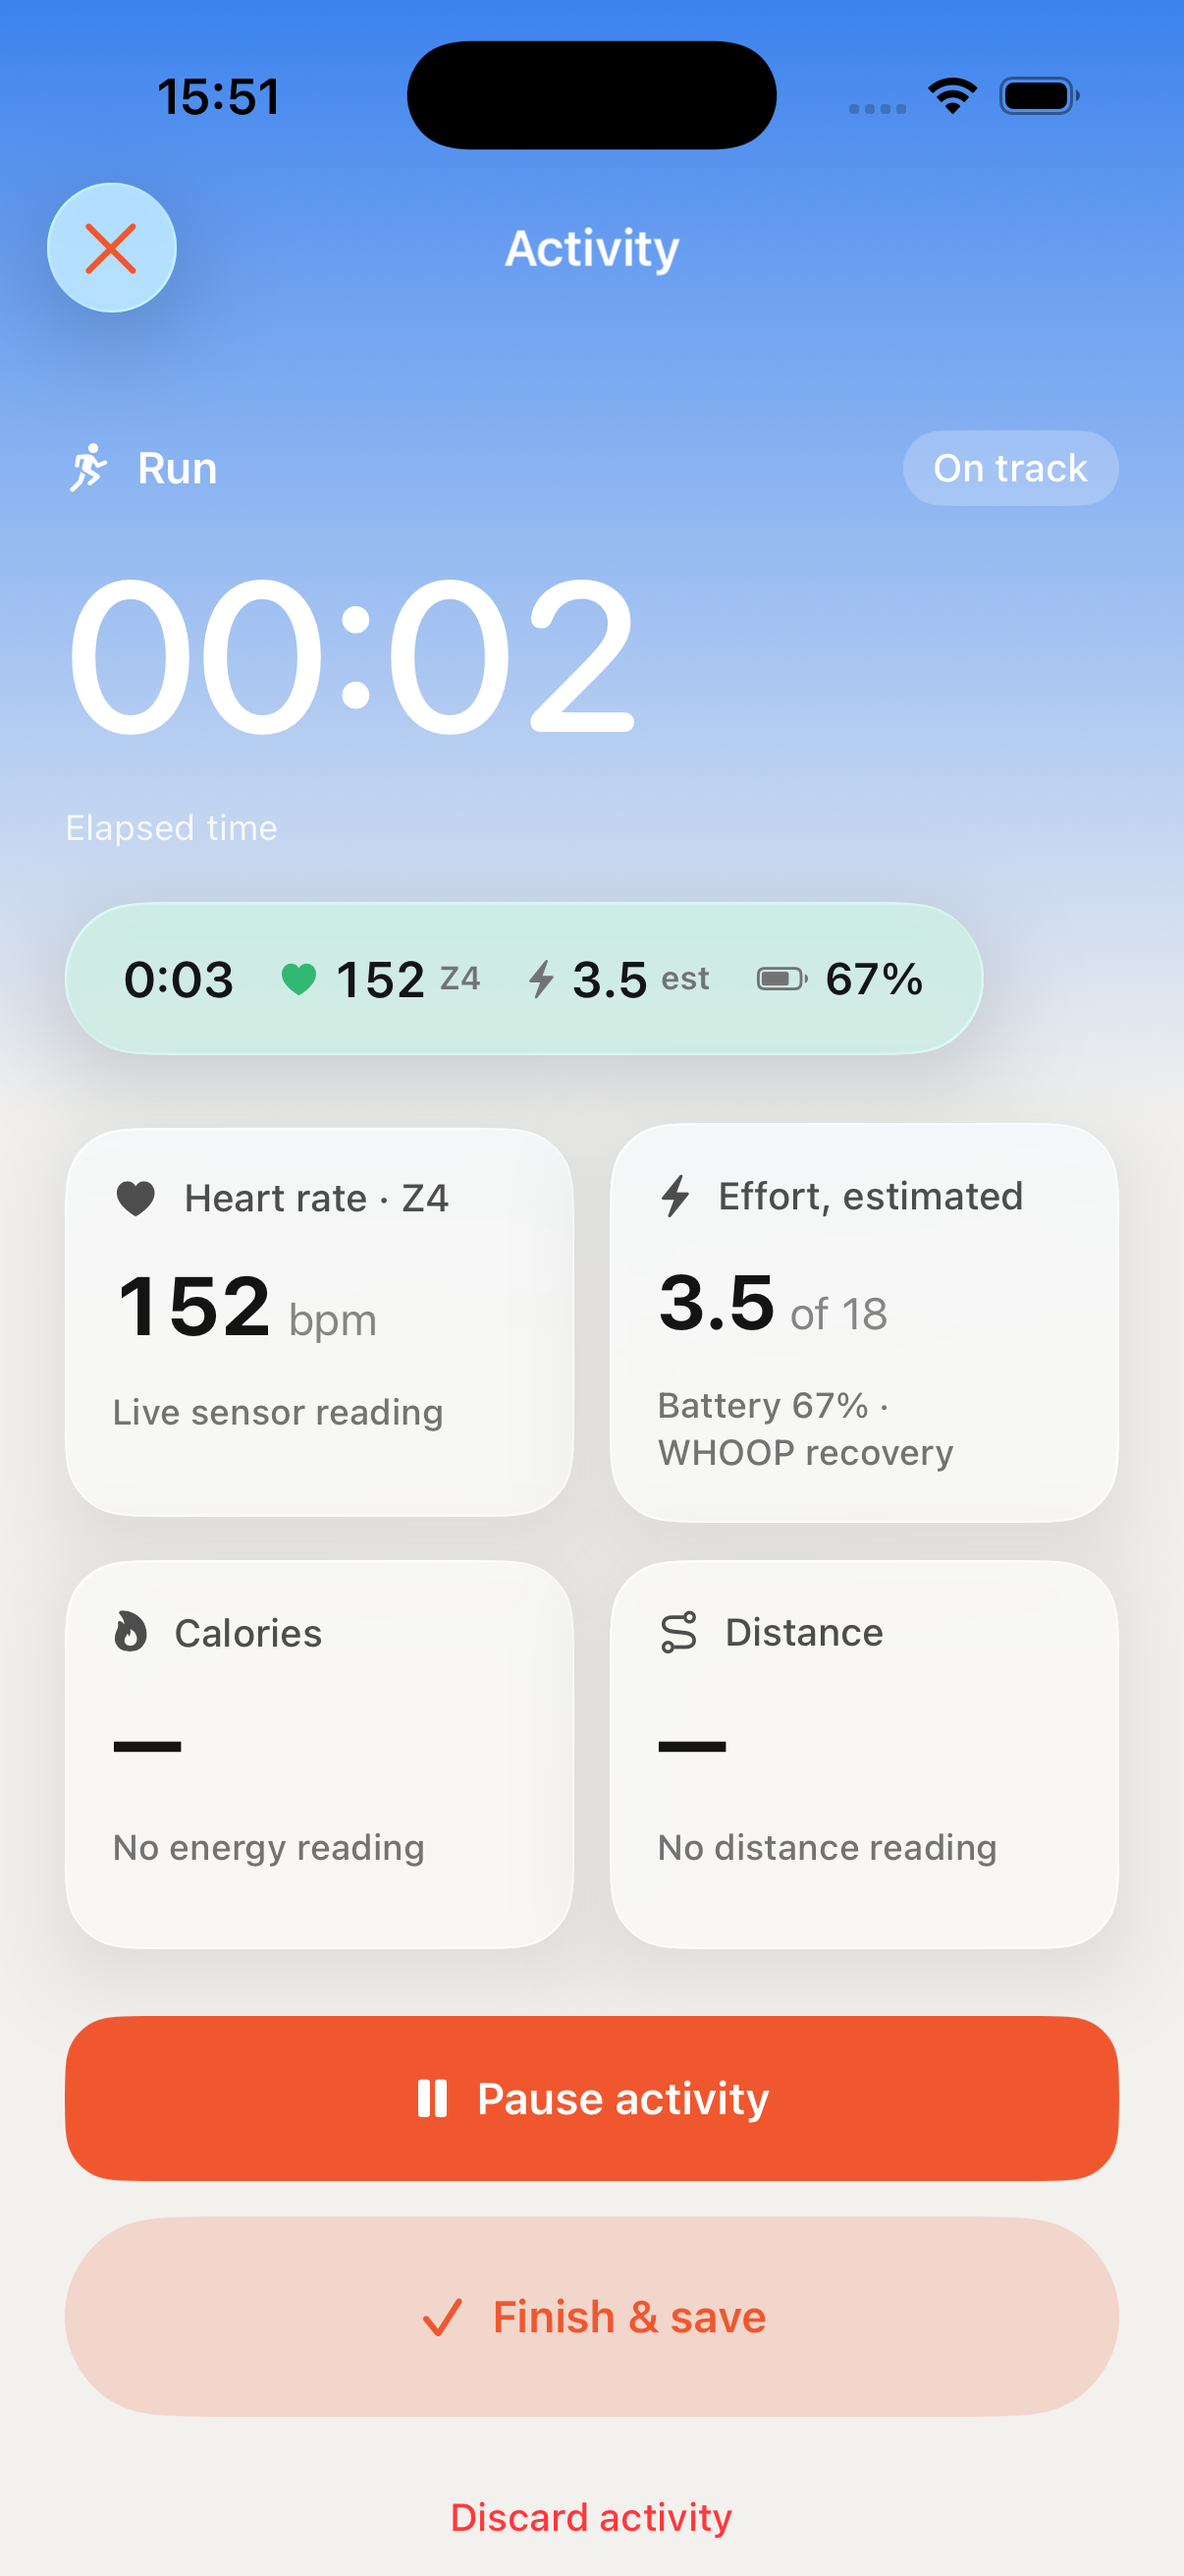
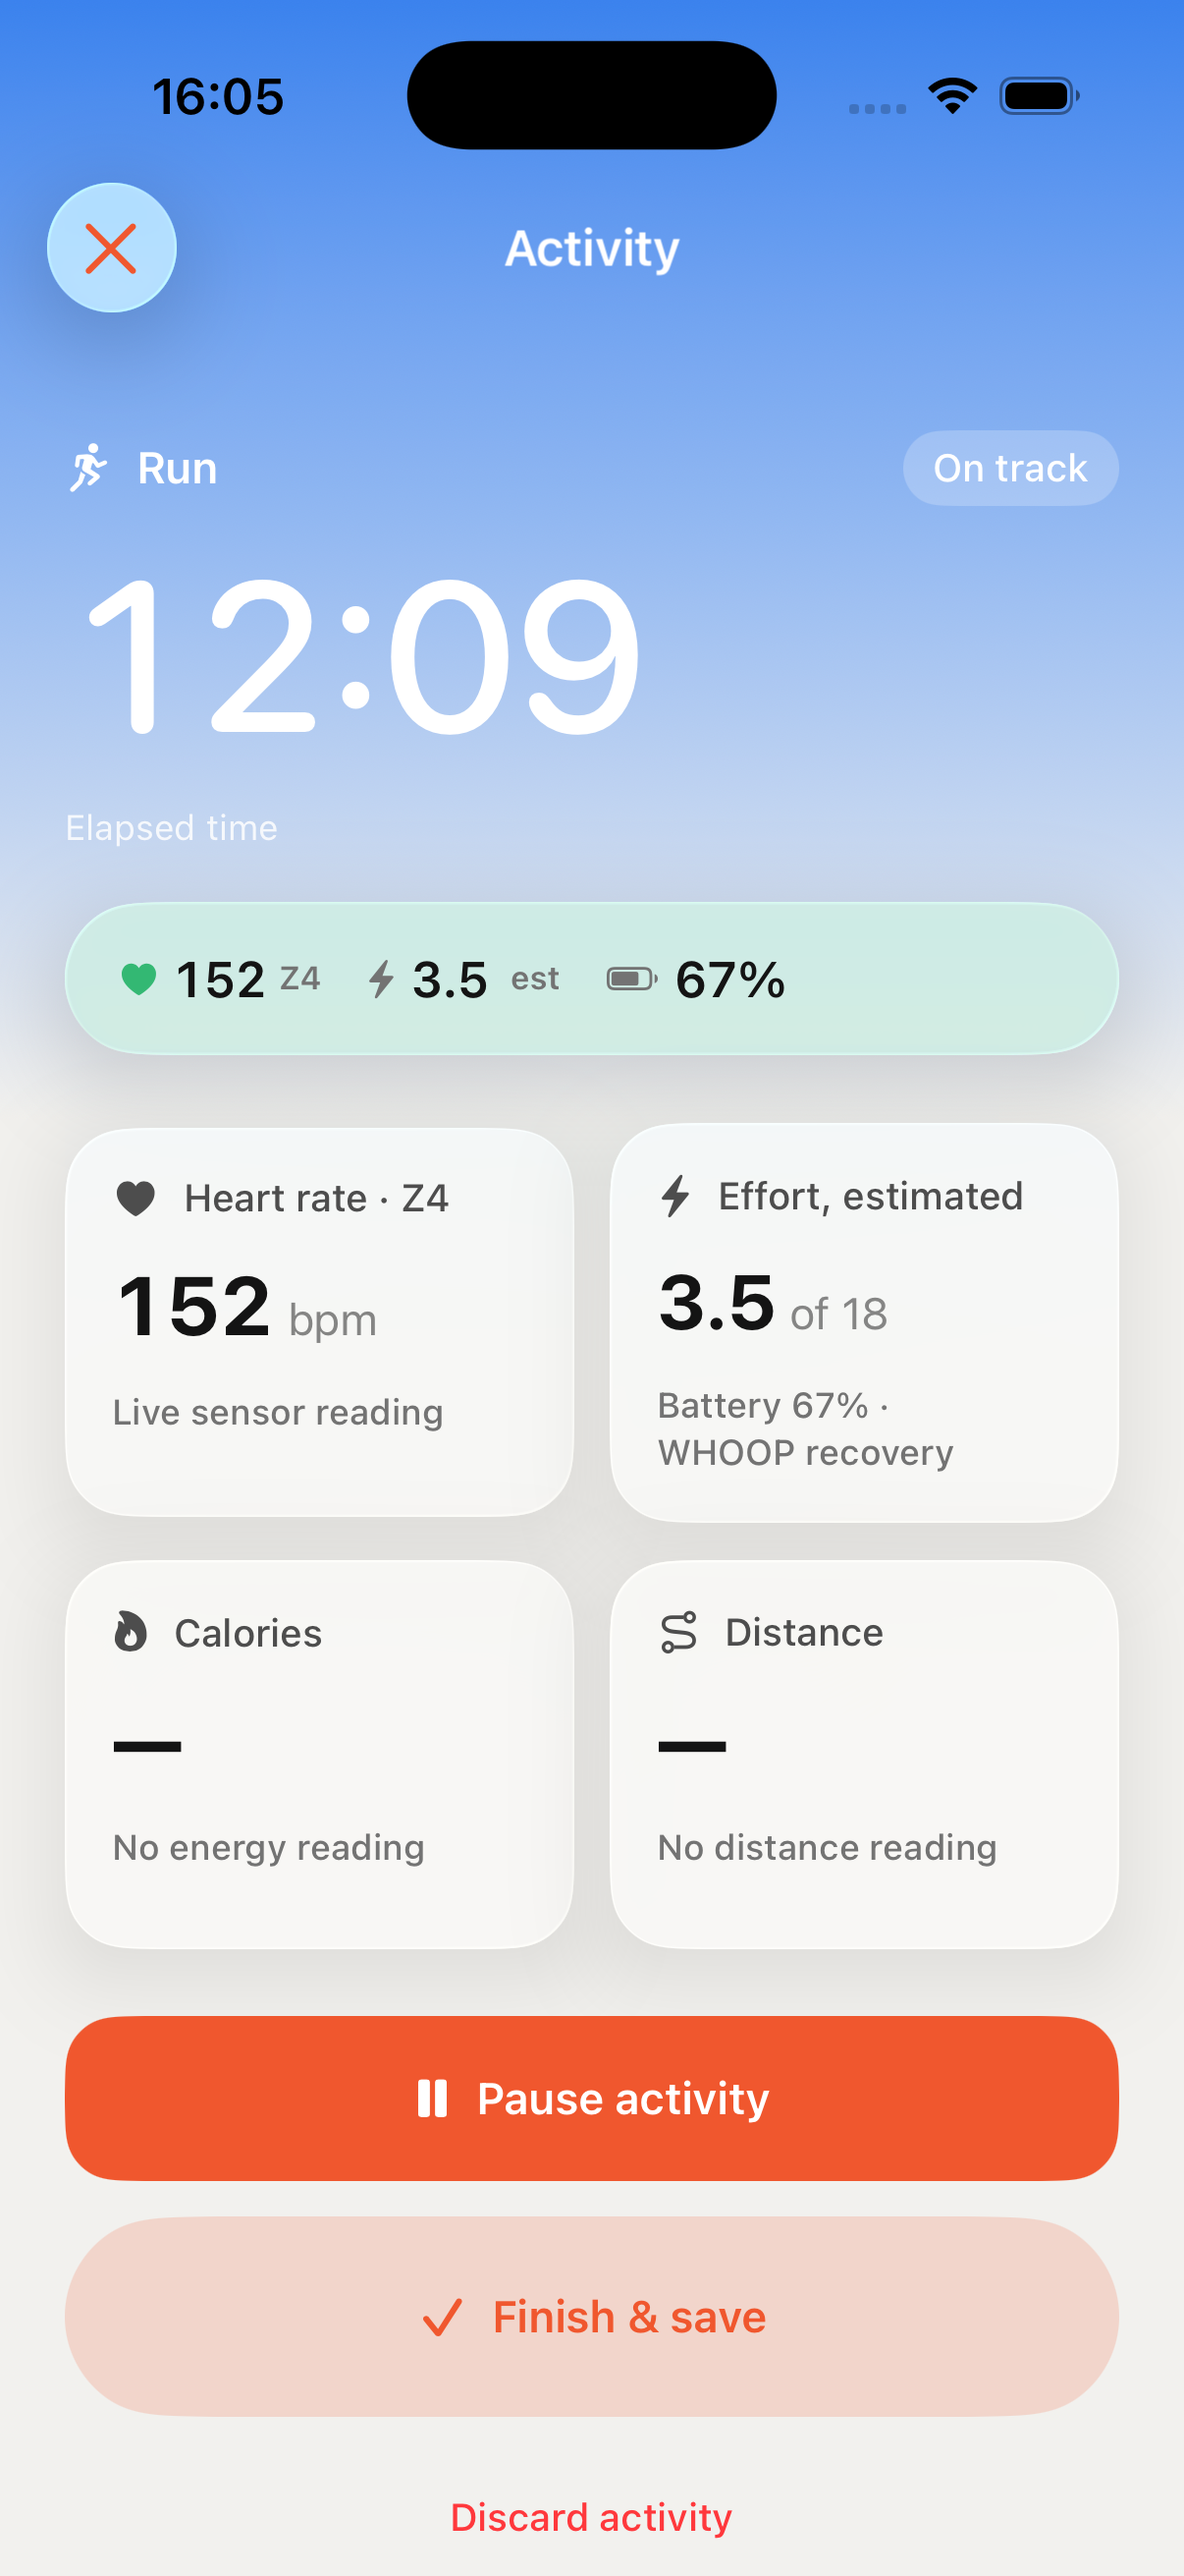
fix(activity): steady HUD widths, shared formatters, backdated fixture
Restore fixed minWidths so the HUD capsule doesn't resize as digits
change, let it span the row instead of shrinking text, and drop the
duplicate in-capsule timer when the hero already shows elapsed time.
Move reading-to-text formatting into a shared LiveSessionReadout
extension with a test, and backdate the --live preview fixture's
session start alongside its synthetic heart-rate history so captures
show a real twelve-minute run.

diff --git a/LIfeOS/Features/Activity/View/SessionHUD.swift b/LIfeOS/Features/Activity/View/SessionHUD.swift
@@ -9,6 +9,7 @@ struct SessionHUD: View {
     let readout: LiveSessionReadout
     let activity: RecordedActivity
     let zonesAvailable: Bool
+    var showsTimer: Bool = true
     @Binding var isExpanded: Bool
     @Environment(\.colorScheme) private var scheme
     @Namespace private var glass
@@ -20,11 +21,11 @@ struct SessionHUD: View {
             Button { withAnimation(.snappy) { isExpanded.toggle() } } label: {
                 VStack(alignment: .leading, spacing: 10) {
                     HStack(spacing: 14) {
-                        timer
-                        reading(symbol: "heart.fill", value: readout.heartRate.map(String.init), chip: readout.zone.map { "Z\($0)" }, tint: readout.push.tint)
+                        if showsTimer { timer.frame(minWidth: 62, alignment: .leading) }
+                        reading(symbol: "heart.fill", value: readout.heartRate.map { _ in readout.heartRateText }, chip: readout.zoneText, tint: readout.push.tint)
                         if showsEffort {
-                            reading(symbol: "bolt.fill", value: readout.effort.map { String(format: "%.1f", $0) }, chip: "est", tint: nil)
-                            reading(symbol: "battery.75percent", value: readout.batteryPercent.map { "\($0)%" }, chip: nil, tint: nil)
+                            reading(symbol: "bolt.fill", value: readout.effort.map { _ in readout.effortText }, chip: "est", tint: nil)
+                            reading(symbol: "battery.75percent", value: readout.batteryPercent.map { _ in readout.batteryText }, chip: nil, tint: nil)
                         }
                         if activity == .strength {
                             reading(symbol: "repeat", value: nil, chip: "reps", tint: nil)
@@ -32,6 +33,7 @@ struct SessionHUD: View {
                     }
                     if isExpanded { expanded }
                 }
+                .frame(maxWidth: .infinity, alignment: .leading)
                 .padding(.horizontal, 18).padding(.vertical, isExpanded ? 14 : 10)
                 .frame(minHeight: 52)
                 .foregroundStyle(LifeOSTokens.primaryText.resolve(scheme))
@@ -54,17 +56,16 @@ struct SessionHUD: View {
                 Text(Duration.seconds(readout.elapsed).formatted(.time(pattern: .minuteSecond)))
             }
         }
-        .font(.system(.headline, design: .rounded)).monospacedDigit().lineLimit(1).minimumScaleFactor(0.6)
+        .font(.system(.headline, design: .rounded)).monospacedDigit().lineLimit(1)
     }
 
     private func reading(symbol: String, value: String?, chip: String?, tint: Color?) -> some View {
         HStack(spacing: 4) {
             Image(systemName: symbol).font(.caption).foregroundStyle(tint ?? LifeOSTokens.secondaryText.resolve(scheme))
-            Text(value ?? "\u{2014}").font(.headline).monospacedDigit()
-                .minimumScaleFactor(0.6).lineLimit(1)
+            Text(value ?? LiveSessionReadout.missing).font(.headline).monospacedDigit()
+                .minimumScaleFactor(0.8).lineLimit(1).frame(minWidth: 30, alignment: .leading)
             if let chip {
                 Text(chip).font(LifeOSType.eyebrow).foregroundStyle(LifeOSTokens.secondaryText.resolve(scheme))
-                    .minimumScaleFactor(0.6).lineLimit(1)
             }
         }.lineLimit(1)
     }
@@ -73,10 +74,10 @@ struct SessionHUD: View {
         VStack(alignment: .leading, spacing: 6) {
             Text(ceilingLine).font(LifeOSType.caption).foregroundStyle(LifeOSTokens.secondaryText.resolve(scheme))
             HStack(spacing: 16) {
-                reading(symbol: "flame.fill", value: readout.calories.map(String.init), chip: "kcal", tint: nil)
+                reading(symbol: "flame.fill", value: readout.calories.map { _ in readout.caloriesText }, chip: "kcal", tint: nil)
                 if [.walk, .run, .cycle].contains(activity) {
                     reading(symbol: "point.bottomleft.forward.to.point.topright.scurvepath",
-                            value: readout.distanceMeters.map { String(format: "%.2f", Double($0) / 1000) }, chip: "km", tint: nil)
+                            value: readout.distanceMeters.map { _ in readout.distanceKilometresText }, chip: "km", tint: nil)
                 }
                 if readout.push == .overLimit { Text("Over your target").font(LifeOSType.label).foregroundStyle(LifeOSTokens.pushNear) }
             }
@@ -86,11 +87,7 @@ struct SessionHUD: View {
     private var ceilingLine: String {
         if activity == .yoga { return "Recovery session" }
         guard zonesAvailable else { return "Add your birth date in Profile for zones and effort." }
-        let source = switch readout.capacitySource {
-            case "whoop": "WHOOP recovery"
-            case "health": "Apple Health"
-            default: "Battery unknown"
-        }
+        let source = readout.capacitySourceName
         guard let zone = readout.ceilingMaxZone, let target = readout.ceilingTarget else { return source }
         return "Up to zone \(zone) today · target \(Int(target.lowerBound)) to \(Int(target.upperBound)) · \(source)"
     }

diff --git a/LIfeOS/Features/Activity/View/BeginActivityScreen.swift b/LIfeOS/Features/Activity/View/BeginActivityScreen.swift
@@ -105,7 +105,7 @@ struct BeginActivityScreen: View {
                     .accessibilityLabel("Elapsed time, \(duration(model.timer?.elapsed(at: timeline.date) ?? 0))")
             }
             Text("Elapsed time").font(LifeOSType.caption).opacity(0.85)
-            SessionHUD(readout: readout, activity: model.selection, zonesAvailable: model.zonesAvailable, isExpanded: $hudExpanded)
+            SessionHUD(readout: readout, activity: model.selection, zonesAvailable: model.zonesAvailable, showsTimer: false, isExpanded: $hudExpanded)
                 .padding(.top, 10)
         }
         .foregroundStyle(.white)
@@ -117,18 +117,18 @@ struct BeginActivityScreen: View {
             let fresh = model.isRunning && model.heartRateDate.map { timeline.date.timeIntervalSince($0) < 15 } == true
             LazyVGrid(columns: [GridItem(.adaptive(minimum: 145), spacing: 12)], spacing: 12) {
                 glassTile(icon: "heart.fill", label: readout.zone.map { "Heart rate · Z\($0)" } ?? "Heart rate",
-                          value: fresh ? readout.heartRate.map(String.init) : nil, unit: "bpm",
+                          value: fresh ? readout.heartRate.map { _ in readout.heartRateText } : nil, unit: "bpm",
                           caption: fresh ? "Live sensor reading" : model.isPaused ? "Activity paused" : model.sensor.status)
                 if model.zonesAvailable, model.selection != .yoga {
-                    glassTile(icon: "bolt.fill", label: "Effort, estimated", value: readout.effort.map { String(format: "%.1f", $0) },
+                    glassTile(icon: "bolt.fill", label: "Effort, estimated", value: readout.effort.map { _ in readout.effortText },
                               unit: readout.ceilingTarget.map { "of \(Int($0.upperBound))" },
                               caption: capacityCaption(readout))
                 }
-                glassTile(icon: "flame.fill", label: "Calories", value: readout.calories.map(String.init), unit: "kcal",
+                glassTile(icon: "flame.fill", label: "Calories", value: readout.calories.map { _ in readout.caloriesText }, unit: "kcal",
                           caption: readout.calories == nil ? "No energy reading" : "From Apple Health")
                 if [.walk, .run, .cycle].contains(model.selection) {
                     glassTile(icon: "point.bottomleft.forward.to.point.topright.scurvepath", label: "Distance",
-                              value: readout.distanceMeters.map { String(format: "%.2f", Double($0) / 1000) }, unit: "km",
+                              value: readout.distanceMeters.map { _ in readout.distanceKilometresText }, unit: "km",
                               caption: readout.distanceMeters == nil ? "No distance reading" : "From Apple Health")
                 }
                 if !model.zonesAvailable {
@@ -140,11 +140,7 @@ struct BeginActivityScreen: View {
     }
 
     private func capacityCaption(_ readout: LiveSessionReadout) -> String {
-        switch readout.capacitySource {
-        case "whoop": "Battery \(readout.batteryPercent.map { "\($0)%" } ?? "\u{2014}") · WHOOP recovery"
-        case "health": "Battery \(readout.batteryPercent.map { "\($0)%" } ?? "\u{2014}") · Apple Health"
-        default: "Battery unknown · cautious target"
-        }
+        readout.capacitySource == nil ? "Battery unknown · cautious target" : "Battery \(readout.batteryText) · \(readout.capacitySourceName)"
     }
 
     private func glassTile(icon: String, label: String, value: String?, unit: String?, caption: String) -> some View {

diff --git a/LIfeOS/Features/Activity/ViewModel/ActivityRecorder.swift b/LIfeOS/Features/Activity/ViewModel/ActivityRecorder.swift
@@ -128,7 +128,7 @@ final class ActivityRecorder: NSObject, HKWorkoutSessionDelegate, HKLiveWorkoutB
         }
     }
 
-    func start() async {
+    func start(at started: Date = .now) async {
         guard active, !busy, !hasSession else { return }
         busy = true; error = nil; saved = false; healthSaved = false; collectionEnded = false
         zones = HeartRateZones(birthDate: birthDate())
@@ -157,13 +157,12 @@ final class ActivityRecorder: NSObject, HKWorkoutSessionDelegate, HKLiveWorkoutB
                 self.builder = builder
                 session.delegate = self; builder.delegate = self
                 builder.dataSource = HKLiveWorkoutDataSource(healthStore: healthStore, workoutConfiguration: configuration)
-                let started = Date.now
                 timer = ActivitySessionState(activity: selection.rawValue, at: started)
                 session.startActivity(with: started)
                 try await builder.beginCollection(at: started)
                 guard active else { session.end(); builder.discardWorkout(); return }
             } else {
-                timer = ActivitySessionState(activity: selection.rawValue)
+                timer = ActivitySessionState(activity: selection.rawValue, at: started)
             }
             persist()
         } catch {

diff --git a/LifeOSKit/Tests/AppSurfacesTests/LiveSessionReadoutTests.swift b/LifeOSKit/Tests/AppSurfacesTests/LiveSessionReadoutTests.swift
@@ -53,4 +53,15 @@ struct LiveSessionReadoutTests {
         #expect(!LiveActivityThrottle.shouldPublish(previous: readout(bpm: 120), next: readout(bpm: 120), lastPublishedAt: now.addingTimeInterval(-60), now: now))
         #expect(LiveActivityThrottle.shouldPublish(previous: readout(bpm: 120), next: readout(bpm: 120, paused: true), lastPublishedAt: now, now: now))
     }
+
+    @Test func textFormattersKeepAbsenceAndRounding() {
+        var readout = LiveSessionReadout(elapsed: 0, runningSince: nil, push: .onTrack)
+        #expect(readout.heartRateText == "\u{2014}" && readout.effortText == "\u{2014}" && readout.batteryText == "\u{2014}")
+        #expect(readout.zoneText == nil && readout.capacitySourceName == "Battery unknown")
+        readout.heartRate = 152; readout.zone = 4; readout.effort = 3.45; readout.calories = 0
+        readout.distanceMeters = 1234; readout.batteryPercent = 0; readout.capacitySource = "whoop"
+        #expect(readout.heartRateText == "152" && readout.zoneText == "Z4" && readout.effortText == "3.5")
+        #expect(readout.caloriesText == "0" && readout.distanceKilometresText == "1.23" && readout.batteryText == "0%")
+        #expect(readout.capacitySourceName == "WHOOP recovery")
+    }
 }

diff --git a/LifeOSKit/Sources/AppSurfaces/LiveSessionReadout+Text.swift b/LifeOSKit/Sources/AppSurfaces/LiveSessionReadout+Text.swift
@@ -1,0 +1,21 @@
+import Foundation
+
+/// The one place a reading becomes text, so the HUD, the tiles and any
+/// later surface agree on rounding and on the dash that means "no reading".
+public extension LiveSessionReadout {
+    static let missing = "\u{2014}"
+    var heartRateText: String { heartRate.map(String.init) ?? Self.missing }
+    var zoneText: String? { zone.map { "Z\($0)" } }
+    var effortText: String { effort.map { String(format: "%.1f", $0) } ?? Self.missing }
+    var caloriesText: String { calories.map(String.init) ?? Self.missing }
+    var distanceKilometresText: String { distanceMeters.map { String(format: "%.2f", Double($0) / 1000) } ?? Self.missing }
+    var batteryText: String { batteryPercent.map { "\($0)%" } ?? Self.missing }
+    /// "WHOOP recovery", "Apple Health", or "Battery unknown".
+    var capacitySourceName: String {
+        switch capacitySource {
+        case "whoop": "WHOOP recovery"
+        case "health": "Apple Health"
+        default: "Battery unknown"
+        }
+    }
+}

diff --git a/LIfeOS/Features/Health/View/HealthActivityDesignPreview.swift b/LIfeOS/Features/Health/View/HealthActivityDesignPreview.swift
@@ -29,8 +29,8 @@ struct HealthActivityDesignPreview: View {
                     .task {
                         guard ProcessInfo.processInfo.arguments.contains("--live"), !fixture.recorder.hasSession else { return }
                         fixture.recorder.selection = ProcessInfo.processInfo.arguments.contains("--strength") ? .strength : .run
-                        await fixture.recorder.start()
                         let start = Date.now.addingTimeInterval(-724)
+                        await fixture.recorder.start(at: start)
                         for second in stride(from: 0, to: 720, by: 2) {
                             fixture.recorder.sensor.onReading?(second < 120 ? 118 : second < 480 ? 146 : 156, start.addingTimeInterval(Double(second)))
                         }
